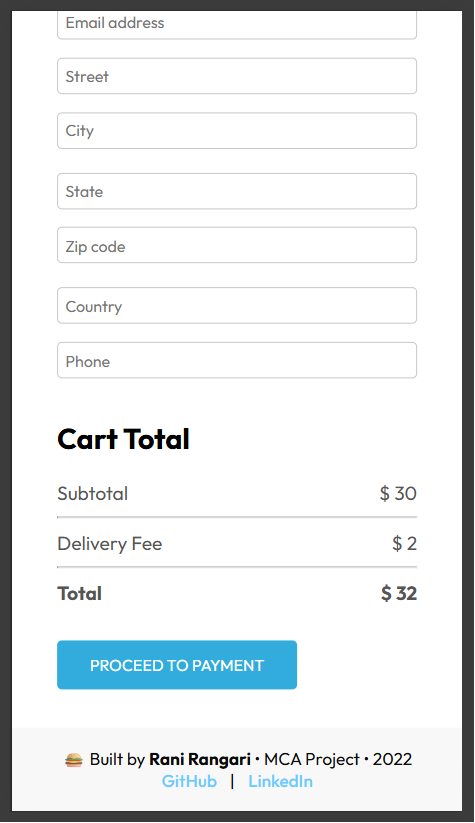
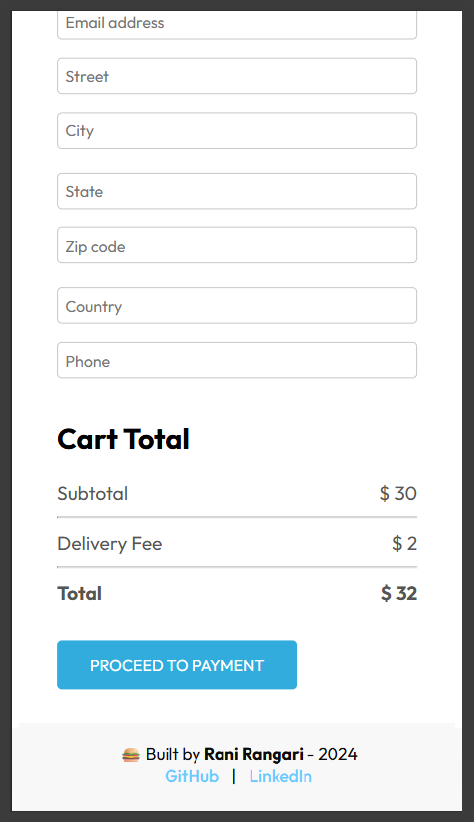
add: food fusion screenshots

Changed region(s): [[0.1179, 0.9113, 0.8842, 0.9721]]

diff --git a/Food-Fusion-mern/admin/src/components/Footer.jsx b/Food-Fusion-mern/admin/src/components/Footer.jsx
@@ -4,7 +4,7 @@ import './Footer.css';
 const Footer = () => {
   return (
     <footer className='footer' id='footer' style={{ textAlign: 'center', padding: '1rem', fontSize: '0.9rem', backgroundColor: '#f8f8f8'}}>
-      <p>🍔 Built by <strong>Rani Rangari</strong></p>
+      <p>🍔 Built by <strong>Rani Rangari</strong> - 2024</p>
       <p>
         <a href="https://github.com/rangari-rani" target="_blank" rel="noreferrer">GitHub</a> |{" "}
         <a href="https://www.linkedin.com/in/rani-rangari" target="_blank" rel="noreferrer">LinkedIn</a>
